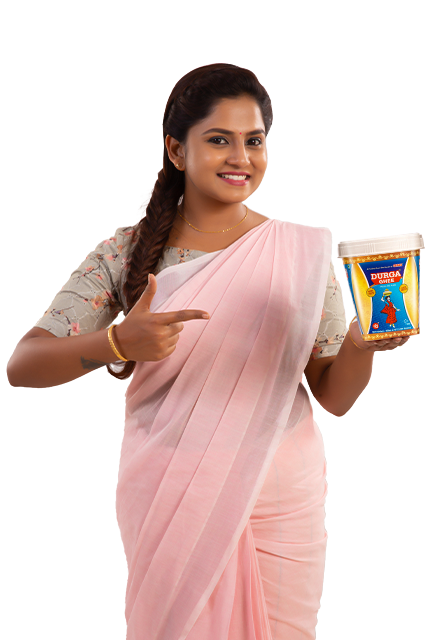
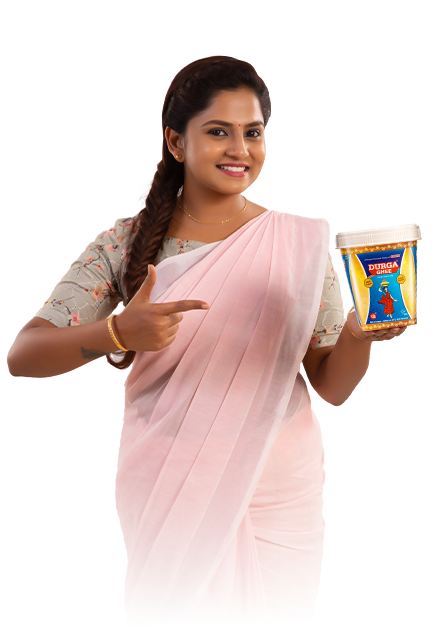
update the images

diff --git a/assets/css/custome.css b/assets/css/custome.css
@@ -41,6 +41,9 @@
     letter-spacing: 0;
     margin-bottom: 0;
 }
+.tg-cube-grid .tg-cube {
+    background-color: var(--tg-primary-color);
+}
 
 /* Header */
 .menu-area-two {
@@ -128,6 +131,9 @@
 }
 
 /* Features */
+.features-bg-two::before {
+    background: rgba(0, 0, 0, 0.6);
+}
 .features-item-three {
     display: flex;
     text-align: center;
@@ -186,6 +192,11 @@
     margin-bottom: 3px;
     font-size: 36px;
     font-weight: 500;
+}
+
+/* Why Choose Us */
+.ingredients-img::after {
+    display: none;
 }
 
 /* Products Shop */
@@ -272,6 +283,10 @@
     max-width: 150px;
     margin: 0 0 2.5%;
 }
+.testimonial-bg::before,
+.testimonial-bg::after {
+    display: none;
+}
 
 /* News blogs */
 .tg-blog-overlay-tag > a {
@@ -339,8 +354,11 @@
 .footer-contact-wrap .list-wrap li i {
     color: var(--tg-primary-color);
 }
-.footer-social a:hover {
+.footer-social a {
     background: var(--tg-primary-color);
+}
+.footer-social a:hover {
+    background: var(--tg-secondary-color);
 }
 .footer-widgets-wrap .row [class*="col-"]:nth-child(4n+2) .footer-widget {
 	padding-left: 2.5%;

diff --git a/index.html b/index.html
@@ -1059,7 +1059,7 @@
                         <div class="row gy-5">
                             <div class="col-lg-12 d-flex align-items-center justify-content-around">
                                 <div class="cta-img">
-                                    <img src="assets/img/others/h3_pricing_img02.png" alt="Pure and Natural Durga Ghee">
+                                    <img src="assets/img/others/call-to-action.png" alt="Pure and Natural Durga Ghee">
                                 </div>
                                 <div class="cta-title">
                                     <h2 class="title">Pure & Nutrient-Rich Durga Ghee</h2>
